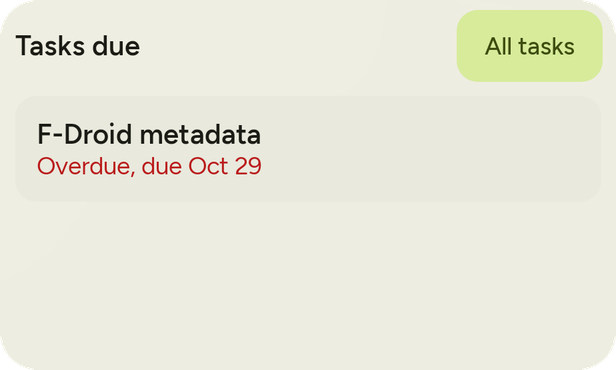
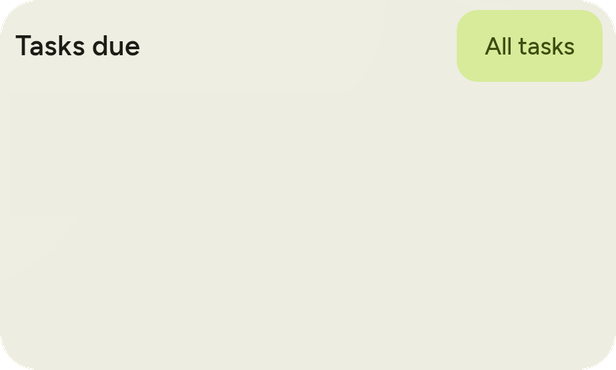
Widgets: show a neutral placeholder until the first draw instead of a blank frame

Changed region(s): [[0.0617, 0.4162, 0.4318, 0.4757], [0.0617, 0.327, 0.4318, 0.3865]]

diff --git a/mobile/plugins/withWidgetPlaceholder.js b/mobile/plugins/withWidgetPlaceholder.js
@@ -1,0 +1,40 @@
+// A new widget stays empty until the app's JavaScript has started and drawn it. Android shows a provider's
+// initialLayout until the first update arrives, so point each widget at its own preview image instead of the
+// library's blank layout. Runs last (finalized), after react-native-android-widget has written its files.
+const { withFinalizedMod } = require('expo/config-plugins');
+const fs = require('fs');
+const path = require('path');
+
+const WIDGETS = ['pinnednotes', 'duetasks'];
+
+module.exports = function withWidgetPlaceholder(config) {
+  return withFinalizedMod(config, [
+    'android',
+    async (cfg) => {
+      const res = path.join(cfg.modRequest.platformProjectRoot, 'app/src/main/res');
+      fs.mkdirSync(path.join(res, 'layout'), { recursive: true });
+      for (const name of WIDGETS) {
+        fs.writeFileSync(
+          path.join(res, 'layout', `widget_loading_${name}.xml`),
+          `<?xml version="1.0" encoding="utf-8"?>
+<FrameLayout xmlns:android="http://schemas.android.com/apk/res/android"
+    android:id="@android:id/background"
+    android:layout_width="match_parent"
+    android:layout_height="match_parent">
+    <ImageView
+        android:layout_width="match_parent"
+        android:layout_height="match_parent"
+        android:importantForAccessibility="no"
+        android:scaleType="centerCrop"
+        android:src="@drawable/${name}_preview" />
+</FrameLayout>
+`
+        );
+        const provider = path.join(res, 'xml', `widgetprovider_${name}.xml`);
+        const xml = fs.readFileSync(provider, 'utf8');
+        fs.writeFileSync(provider, xml.replace('@layout/rn_widget"', `@layout/widget_loading_${name}"`));
+      }
+      return cfg;
+    },
+  ]);
+};
